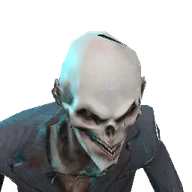
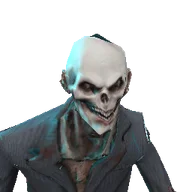
Content rebuild: hit shapes and provenance for Warrior Sentinel and Rattles; their portraits
Claude-Session: https://claude.ai/code/session_012no7opCqP8rCoMpqLVd8kG

diff --git a/packages/shared/src/content/hitboxes.generated.ts b/packages/shared/src/content/hitboxes.generated.ts
@@ -228,10 +228,10 @@ export const MEASURED_HITBOXES: Readonly<Record<string, LookHitbox>> = {
     stand: { head: { x: 0.02, y: 1.42, z: 0.03, r: 0.15 }, torso: { x: -0.01, w: 0.17, r: 0.13, a: [0.85, -0.05], b: [1.23, -0.03] }, legs: [{ a: [0.19, 0.54, -0.14], b: [0.13, 0.75, -0.11], r: 0.07 }, { a: [-0.17, 0.62, 0.09], b: [-0.15, 0.72, 0], r: 0.11 }, { a: [0.2, 0.14, -0.25], b: [0.19, 0.41, -0.15], r: 0.15 }, { a: [-0.2, 0.15, 0.05], b: [-0.21, 0.3, 0.11], r: 0.26 }], arms: [{ a: [0.12, 1.05, 0.06], b: [0.1, 1.16, 0.33], r: 0.14 }, { a: [-0.18, 1.15, 0.08], b: [-0.05, 0.99, 0.22], r: 0.08 }] },
     crouch: { head: { x: -0.09, y: 0.88, z: 0.14, r: 0.15 }, torso: { x: -0.06, w: 0.19, r: 0.13, a: [0.46, -0.19], b: [0.77, -0.04] }, legs: [{ a: [0.12, 0.39, -0.24], b: [0.19, 0.28, 0.02], r: 0.06 }, { a: [-0.17, 0.37, -0.19], b: [-0.21, 0.44, 0.01], r: 0.08 }, { a: [0.21, 0.15, -0.29], b: [0.2, 0.25, 0], r: 0.13 }, { a: [-0.21, 0.15, 0.05], b: [-0.23, 0.27, 0.12], r: 0.25 }], arms: [{ a: [0.01, 0.52, 0.16], b: [-0.02, 0.62, 0.44], r: 0.14 }, { a: [-0.29, 0.61, 0.19], b: [-0.17, 0.45, 0.32], r: 0.08 }] },
     prone: { head: { x: -0.02, y: 0.23, z: 0.37, r: 0.15 }, torso: { x: -0.02, w: 0.19, r: 0.13, a: [0.11, -0.16], b: [0.14, 0.21] }, legs: [{ a: [0.14, 0.12, -0.26], b: [0.35, 0.08, -0.33], r: 0.07 }, { a: [-0.2, 0.06, -0.39], b: [-0.18, 0.08, -0.3], r: 0.11 }, { a: [0.1, 0.07, -0.69], b: [0.32, 0.08, -0.46], r: 0.14 }, { a: [-0.25, 0.03, -0.91], b: [-0.2, 0.03, -0.67], r: 0.21 }], arms: [{ a: [0.23, -0.03, 0.1], b: [0.14, 0.01, 0.31], r: 0.14 }, { a: [-0.29, -0.04, 0.17], b: [-0.16, -0.01, 0.41], r: 0.15 }] } },
-  'core.rattles': { rest: 1.82,
-    stand: { head: { x: 0, y: 1.48, z: 0.11, r: 0.13 }, torso: { x: -0.02, w: 0.17, r: 0.13, a: [1.02, -0.17], b: [1.37, -0.1] }, legs: [{ a: [0.21, 0.63, -0.14], b: [0.09, 0.89, -0.15], r: 0.1 }, { a: [-0.19, 0.61, -0.02], b: [-0.11, 0.91, -0.12], r: 0.09 }, { a: [0.24, 0.13, -0.27], b: [0.21, 0.46, -0.22], r: 0.11 }, { a: [-0.25, 0.04, 0.12], b: [-0.2, 0.45, -0.05], r: 0.1 }], arms: [{ a: [0.18, 1.41, -0.01], b: [0.12, 1.41, 0.52], r: 0.11 }, { a: [-0.21, 1.41, -0.06], b: [-0.04, 1.35, 0.28], r: 0.05 }] },
-    crouch: { head: { x: -0.13, y: 0.86, z: 0.07, r: 0.13 }, torso: { x: -0.09, w: 0.17, r: 0.15, a: [0.52, -0.36], b: [0.84, -0.19] }, legs: [{ a: [0.07, 0.46, -0.37], b: [0.18, 0.37, -0.09], r: 0.09 }, { a: [-0.12, 0.41, -0.37], b: [-0.2, 0.46, -0.06], r: 0.07 }, { a: [0.2, 0.13, -0.47], b: [0.2, 0.25, -0.15], r: 0.11 }, { a: [-0.23, -0.04, 0.12], b: [-0.2, 0.37, -0.06], r: 0.09 }], arms: [{ a: [0.05, 0.79, -0.05], b: [0, 0.78, 0.48], r: 0.11 }, { a: [-0.34, 0.78, -0.1], b: [-0.17, 0.72, 0.24], r: 0.05 }] },
-    prone: { head: { x: -0.04, y: 0.19, z: 0.32, r: 0.15 }, torso: { x: -0.03, w: 0.17, r: 0.15, a: [0.2, 0.06], b: [0.25, -0.33] }, legs: [{ a: [0.06, 0.17, -0.44], b: [0.36, 0.05, -0.55], r: 0.09 }, { a: [-0.21, 0.17, -0.73], b: [-0.14, 0.18, -0.4], r: 0.08 }, { a: [0.04, 0.09, -0.99], b: [0.34, 0.07, -0.67], r: 0.1 }, { a: [-0.26, 0.16, -1.36], b: [-0.16, 0.16, -0.86], r: 0.08 }], arms: [{ a: [0.08, -0.02, 0.36], b: [0.28, 0.08, 0.15], r: 0.08 }, { a: [-0.36, 0.12, 0.24], b: [-0.19, 0.02, 0.48], r: 0.11 }] } },
+  'core.rattles': { rest: 1.85,
+    stand: { head: { x: -0.05, y: 1.5, z: -0.01, r: 0.13 }, torso: { x: -0.04, w: 0.17, r: 0.13, a: [1.01, -0.19], b: [1.34, -0.16] }, legs: [{ a: [0.21, 0.62, -0.14], b: [0.09, 0.88, -0.15], r: 0.1 }, { a: [-0.18, 0.6, -0.02], b: [-0.11, 0.9, -0.12], r: 0.08 }, { a: [0.24, 0.13, -0.27], b: [0.21, 0.45, -0.22], r: 0.11 }, { a: [-0.24, 0.04, 0.11], b: [-0.2, 0.45, -0.05], r: 0.1 }], arms: [{ a: [0.12, 1.38, 0.04], b: [0.09, 1.38, 0.44], r: 0.1 }, { a: [-0.2, 1.35, -0.09], b: [0.01, 1.35, 0.42], r: 0.08 }] },
+    crouch: { head: { x: -0.16, y: 0.92, z: 0, r: 0.13 }, torso: { x: -0.11, w: 0.17, r: 0.13, a: [0.51, -0.38], b: [0.87, -0.24] }, legs: [{ a: [0.07, 0.45, -0.36], b: [0.18, 0.36, -0.09], r: 0.09 }, { a: [-0.11, 0.4, -0.37], b: [-0.2, 0.45, -0.06], r: 0.07 }, { a: [0.19, 0.13, -0.47], b: [0.2, 0.25, -0.15], r: 0.11 }, { a: [-0.23, -0.04, 0.11], b: [-0.2, 0.37, -0.06], r: 0.09 }], arms: [{ a: [0.01, 0.81, 0.04], b: [-0.02, 0.8, 0.44], r: 0.1 }, { a: [-0.32, 0.77, -0.09], b: [-0.11, 0.78, 0.42], r: 0.08 }] },
+    prone: { head: { x: -0.04, y: 0.31, z: 0.29, r: 0.15 }, torso: { x: -0.03, w: 0.16, r: 0.14, a: [0.25, -0.33], b: [0.25, 0.04] }, legs: [{ a: [0.06, 0.17, -0.43], b: [0.36, 0.05, -0.54], r: 0.09 }, { a: [-0.21, 0.16, -0.72], b: [-0.14, 0.17, -0.4], r: 0.08 }, { a: [0.04, 0.09, -0.98], b: [0.33, 0.07, -0.66], r: 0.1 }, { a: [-0.26, 0.15, -1.35], b: [-0.16, 0.16, -0.85], r: 0.08 }], arms: [{ a: [0.08, 0.07, 0.33], b: [0.28, 0.16, 0.13], r: 0.08 }, { a: [-0.36, 0.2, 0.21], b: [-0.19, 0.1, 0.45], r: 0.1 }] } },
   'core.unclebao': { rest: 1.83,
     stand: { head: { x: 0.02, y: 1.58, z: 0.04, r: 0.14 }, torso: { x: -0.01, w: 0.21, r: 0.17, a: [1.13, -0.05], b: [1.32, -0.05] }, legs: [{ a: [0.11, 0.62, -0.14], b: [0.11, 0.86, -0.03], r: 0.16 }, { a: [-0.11, 0.61, 0.01], b: [-0.11, 0.88, -0.06], r: 0.16 }, { a: [0.13, 0.1, -0.27], b: [0.1, 0.35, -0.22], r: 0.13 }, { a: [-0.18, 0.08, 0.1], b: [-0.15, 0.35, 0.04], r: 0.13 }], arms: [{ a: [0.24, 1.33, -0.11], b: [0.11, 1.39, 0.41], r: 0.09 }, { a: [-0.28, 1.32, 0], b: [-0.05, 1.32, 0.28], r: 0.06 }] },
     crouch: { head: { x: -0.11, y: 0.98, z: 0.1, r: 0.14 }, torso: { x: -0.09, w: 0.22, r: 0.16, a: [0.57, -0.26], b: [0.85, -0.15] }, legs: [{ a: [0.11, 0.47, -0.3], b: [0.12, 0.3, -0.09], r: 0.14 }, { a: [-0.11, 0.42, -0.3], b: [-0.12, 0.43, -0.06], r: 0.14 }, { a: [0.14, 0.15, -0.39], b: [0.14, 0.23, -0.09], r: 0.13 }, { a: [-0.16, 0.07, 0.12], b: [-0.15, 0.35, 0.06], r: 0.13 }], arms: [{ a: [0.11, 0.73, -0.05], b: [-0.02, 0.79, 0.47], r: 0.09 }, { a: [-0.41, 0.72, 0.06], b: [-0.18, 0.72, 0.34], r: 0.06 }] },
@@ -581,9 +581,9 @@ export const MEASURED_HITBOXES: Readonly<Record<string, LookHitbox>> = {
     crouch: { head: { x: -0.12, y: 1.01, z: 0.09, r: 0.12 }, torso: { x: -0.12, w: 0.25, r: 0.13, a: [0.53, -0.26], b: [0.92, -0.07] }, legs: [{ a: [0.11, 0.48, -0.28], b: [0.15, 0.29, -0.09], r: 0.17 }, { a: [-0.12, 0.43, -0.3], b: [-0.18, 0.46, -0.05], r: 0.18 }, { a: [0.14, 0.2, -0.37], b: [0.17, 0.19, -0.13], r: 0.12 }, { a: [-0.19, 0.06, 0.11], b: [-0.19, 0.28, 0.05], r: 0.13 }], arms: [{ a: [0.13, 0.8, -0.02], b: [-0.03, 0.81, 0.48], r: 0.08 }, { a: [-0.4, 0.76, 0.14], b: [-0.17, 0.76, 0.38], r: 0.09 }] },
     prone: { head: { x: -0.03, y: 0.31, z: 0.38, r: 0.12 }, torso: { x: -0.03, w: 0.26, r: 0.2, a: [0.1, -0.09], b: [0.28, 0.06] }, legs: [{ a: [0.22, 0.13, -0.54], b: [0.1, 0.1, -0.36], r: 0.21 }, { a: [-0.18, 0.1, -0.65], b: [-0.15, 0.11, -0.39], r: 0.2 }, { a: [0.09, 0.07, -0.81], b: [0.22, 0.09, -0.65], r: 0.13 }, { a: [-0.26, 0.15, -1.25], b: [-0.08, 0.09, -0.78], r: 0.11 }], arms: [{ a: [0.11, 0.1, 0.34], b: [0.32, 0.14, 0.18], r: 0.09 }, { a: [-0.37, 0.15, 0.22], b: [-0.18, 0.1, 0.44], r: 0.11 }] } },
   'core.warriorsentinel': { rest: 1.83,
-    stand: { head: { x: 0.04, y: 1.55, z: 0.08, r: 0.13 }, torso: { x: -0.03, w: 0.3, r: 0.2, a: [1.06, 0], b: [1.35, -0.11] }, legs: [{ a: [0.15, 0.56, -0.04], b: [0.14, 0.8, -0.02], r: 0.17 }, { a: [-0.14, 0.56, 0.14], b: [-0.14, 0.8, -0.03], r: 0.16 }, { a: [0.17, 0.11, -0.16], b: [0.14, 0.3, -0.18], r: 0.14 }, { a: [-0.19, 0.09, 0.21], b: [-0.19, 0.3, 0.13], r: 0.14 }], arms: [{ a: [0.36, 1.33, -0.05], b: [0.12, 1.34, 0.44], r: 0.12 }, { a: [-0.28, 1.27, 0.09], b: [-0.02, 1.33, 0.37], r: 0.09 }] },
-    crouch: { head: { x: -0.1, y: 1.02, z: 0.2, r: 0.14 }, torso: { x: -0.1, w: 0.3, r: 0.18, a: [0.63, -0.14], b: [0.97, -0.07] }, legs: [{ a: [0.12, 0.49, -0.23], b: [0.14, 0.34, -0.01], r: 0.16 }, { a: [-0.14, 0.4, -0.21], b: [-0.16, 0.49, 0.05], r: 0.14 }, { a: [0.16, 0.13, -0.26], b: [0.19, 0.23, -0.07], r: 0.14 }, { a: [-0.18, 0.12, 0.22], b: [-0.19, 0.33, 0.13], r: 0.14 }], arms: [{ a: [0.23, 0.81, 0.07], b: [-0.02, 0.81, 0.56], r: 0.12 }, { a: [-0.42, 0.74, 0.21], b: [-0.16, 0.81, 0.5], r: 0.09 }] },
-    prone: { head: { x: -0.02, y: 0.37, z: 0.52, r: 0.14 }, torso: { x: -0.02, w: 0.32, r: 0.2, a: [0.16, 0.04], b: [0.39, 0.18] }, legs: [{ a: [0.26, 0.14, -0.39], b: [0.12, 0.2, -0.27], r: 0.18 }, { a: [-0.17, 0.14, -0.51], b: [-0.16, 0.23, -0.29], r: 0.17 }, { a: [0.11, 0.14, -0.77], b: [0.26, 0.17, -0.53], r: 0.13 }, { a: [-0.22, 0.19, -1.07], b: [-0.18, 0.18, -0.76], r: 0.13 }], arms: [{ a: [0.09, 0.2, 0.52], b: [0.4, 0.22, 0.28], r: 0.1 }, { a: [-0.48, 0.25, 0.3], b: [-0.19, 0.2, 0.61], r: 0.1 }] } },
+    stand: { head: { x: 0.04, y: 1.55, z: 0.08, r: 0.13 }, torso: { x: -0.03, w: 0.29, r: 0.19, a: [1.05, 0], b: [1.36, -0.1] }, legs: [{ a: [0.15, 0.56, -0.04], b: [0.14, 0.8, -0.02], r: 0.17 }, { a: [-0.14, 0.56, 0.14], b: [-0.14, 0.8, -0.03], r: 0.16 }, { a: [0.17, 0.11, -0.16], b: [0.14, 0.3, -0.18], r: 0.14 }, { a: [-0.19, 0.09, 0.21], b: [-0.19, 0.3, 0.13], r: 0.14 }], arms: [{ a: [0.29, 1.35, -0.06], b: [0.11, 1.33, 0.45], r: 0.12 }, { a: [-0.28, 1.36, 0.07], b: [-0.06, 1.25, 0.31], r: 0.1 }] },
+    crouch: { head: { x: -0.1, y: 1.02, z: 0.2, r: 0.14 }, torso: { x: -0.1, w: 0.3, r: 0.18, a: [0.63, -0.14], b: [0.97, -0.07] }, legs: [{ a: [0.12, 0.49, -0.23], b: [0.14, 0.34, -0.01], r: 0.16 }, { a: [-0.14, 0.4, -0.21], b: [-0.16, 0.49, 0.05], r: 0.14 }, { a: [0.15, 0.13, -0.26], b: [0.19, 0.23, -0.07], r: 0.14 }, { a: [-0.18, 0.12, 0.22], b: [-0.19, 0.33, 0.13], r: 0.14 }], arms: [{ a: [0.16, 0.83, 0.06], b: [-0.02, 0.8, 0.57], r: 0.12 }, { a: [-0.42, 0.83, 0.2], b: [-0.19, 0.73, 0.43], r: 0.1 }] },
+    prone: { head: { x: -0.02, y: 0.37, z: 0.52, r: 0.14 }, torso: { x: -0.02, w: 0.32, r: 0.2, a: [0.16, 0.03], b: [0.39, 0.19] }, legs: [{ a: [0.26, 0.14, -0.39], b: [0.12, 0.2, -0.27], r: 0.18 }, { a: [-0.17, 0.14, -0.51], b: [-0.16, 0.23, -0.29], r: 0.17 }, { a: [0.11, 0.14, -0.77], b: [0.26, 0.17, -0.53], r: 0.13 }, { a: [-0.22, 0.19, -1.07], b: [-0.18, 0.18, -0.76], r: 0.13 }], arms: [{ a: [0.1, 0.18, 0.5], b: [0.37, 0.22, 0.3], r: 0.13 }, { a: [-0.42, 0.25, 0.34], b: [-0.2, 0.17, 0.61], r: 0.14 }] } },
   'core.armoredsentinel': { rest: 1.83,
     stand: { head: { x: 0.02, y: 1.66, z: 0.02, r: 0.06 }, torso: { x: -0.04, w: 0.29, r: 0.22, a: [1.2, -0.06], b: [1.41, -0.07] }, legs: [{ a: [0.19, 0.58, -0.12], b: [0.16, 0.77, 0.06], r: 0.24 }, { a: [-0.19, 0.59, 0.08], b: [-0.26, 0.94, -0.06], r: 0.23 }, { a: [0.2, 0.14, -0.19], b: [0.33, 0.09, -0.08], r: 0.16 }, { a: [-0.19, 0.17, 0.2], b: [-0.21, 0.12, 0.37], r: 0.15 }], arms: [{ a: [0.29, 1.45, 0], b: [0.18, 1.36, 0.37], r: 0.18 }, { a: [-0.26, 1.46, 0.17], b: [-0.12, 1.33, 0.32], r: 0.19 }] },
     crouch: { head: { x: -0.12, y: 1.12, z: 0.15, r: 0.06 }, torso: { x: -0.12, w: 0.3, r: 0.21, a: [0.72, -0.16], b: [0.97, -0.07] }, legs: [{ a: [0.2, 0.34, -0.11], b: [0.17, 0.51, -0.23], r: 0.22 }, { a: [-0.24, 0.43, -0.26], b: [-0.18, 0.46, -0.06], r: 0.23 }, { a: [0.2, 0.1, -0.22], b: [0.25, 0.01, -0.17], r: 0.16 }, { a: [-0.19, 0.2, 0.22], b: [-0.22, 0.14, 0.34], r: 0.17 }], arms: [{ a: [0.15, 0.92, 0.13], b: [0.04, 0.83, 0.5], r: 0.18 }, { a: [-0.4, 0.93, 0.3], b: [-0.26, 0.8, 0.45], r: 0.19 }] },

diff --git a/packages/client/src/frontend/portraitIndex.ts b/packages/client/src/frontend/portraitIndex.ts
@@ -118,7 +118,7 @@ export const SHIPPED_PORTRAITS: Readonly<Record<string, string>> = {
   'core.purplehero': 'core.purplehero.webp?v=4afa2b3524',
   'core.racer': 'core.racer.webp?v=806ff38eed',
   'core.ranger': 'core.ranger.webp?v=540b7adcce',
-  'core.rattles': 'core.rattles.webp?v=e4cf22d812',
+  'core.rattles': 'core.rattles.webp?v=d642a4ba8e',
   'core.resolvesoldier': 'core.resolvesoldier.webp?v=993582c66a',
   'core.ricochet': 'core.ricochet.webp?v=2aa2eded45',
   'core.rollerbot': 'core.rollerbot.webp?v=f9f486fd0f',
@@ -168,7 +168,7 @@ export const SHIPPED_PORTRAITS: Readonly<Record<string, string>> = {
   'core.visitor': 'core.visitor.webp?v=8f30e357e2',
   'core.warden': 'core.warden.webp?v=3302637426',
   'core.warlord': 'core.warlord.webp?v=5d340aaa9f',
-  'core.warriorsentinel': 'core.warriorsentinel.webp?v=f96e3edc8c',
+  'core.warriorsentinel': 'core.warriorsentinel.webp?v=5300586db5',
   'core.wayfarer': 'core.wayfarer.webp?v=e3d4b89af6',
   'core.wwiisoldier': 'core.wwiisoldier.webp?v=21ec2ae183',
   'core.zhao': 'core.zhao.webp?v=1aaffa3f3f',
